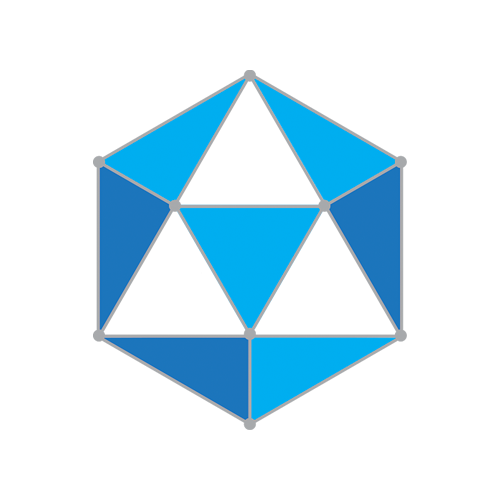
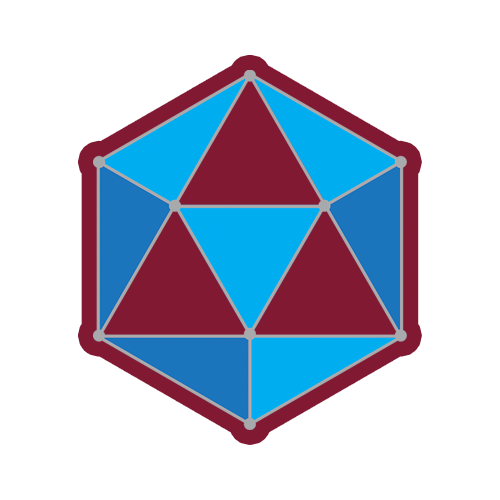
Add files via upload

Changed region(s): [[0.15, 0.09, 0.84, 0.9]]

diff --git a/settings/styling.css b/settings/styling.css
@@ -11,7 +11,7 @@ body {
 }
 /* Main Container */
 .container {
-    max-width: 40%;
+    max-width: 50%;
     min-height: 100%;
     margin: auto;
     background-color: #ba2449;
@@ -26,30 +26,52 @@ body {
     margin-right: auto;
     text-align: center;
 }
-/* Title Name */
-.menu {
-    display: flex;              
-    justify-content: center;    
-    align-items: center;    
-    margin-bottom: 3vh;  
-    margin-top: 3vh; 
-    width: 100%; 
-    background-color: #ffffff;
-}
 /* Navigation Bar */
 .menu {
-    display: flex;              
-    justify-content: center;    
-    align-items: center;    
-    margin-bottom: 2vh;  
-    margin-top: 2vh; 
-    width: 100%; 
+    display: flex;
+    align-items: center; /* Vertically aligns items */
+    justify-content: space-between; /* Separates logo and menu items completely */
+    flex-wrap: nowrap; /* Prevents wrapping of content */
+    width: 100%; /* Ensures the menu fits within the parent container */
+    max-width: 100%; /* Limits the width */
     background-color: #b61644;
+    padding: 0.5em 1em; /* Adds padding for better spacing */
+    box-sizing: border-box; /* Includes padding in the element's total width */
 }
+
+.menu img {
+    max-height: 3.2em; /* Scales the logo to fit with text size */
+    flex-shrink: 0; /* Prevents logo from shrinking */
+}
+
+.menu .menu-items {
+    display: flex; /* Aligns text buttons inline */
+    gap: 1em; /* Adds consistent space between the menu items */
+    margin-left: auto; /* Forces the menu items to align to the right */
+}
+
 .menu h2 {
-    margin-left: 2vw;
-    margin-right: 2vw;
+    margin: 0; /* Removes any default margin */
+    font-size: 1em; /* Adjusts font size if necessary */
+    white-space: nowrap; /* Keeps text on a single line */
 }
+
+.menu a {
+    text-decoration: none; /* Removes underline from links */
+    color: #ffe0bc; /* Text color */
+    display: inline-block; /* Ensures text buttons align properly */
+}
+/* Line Break Styling */
+.menu-line {
+    height: 1px; /* Thickness of the line */
+    background-color: #ffe0bc; /* Gold color */
+    width: 100%; /* Spans the full width of the menu container */
+    margin: auto; /* Adds spacing around the line */
+    display: block; /* Ensures the line is visible as a block element */
+}
+
+
+
 /* Header 1 */
 h1 {
     font-size: 2em;
@@ -85,7 +107,6 @@ ul {
 }
 li {
     text-align: left;
-    font-size: 0.85em;
     color: #ffe0bc;
 }
 /* Links */
@@ -107,12 +128,12 @@ a:visited {
 /* Link Hovering */
 a:hover {
     text-decoration: none;
-    color: #e91c56;
+    color: #821933;
 }
 /* Link Active */
 a:active {
     text-decoration: none;
-    color: #b61644;
+    color: #821933;
 }
 /* Page Specific */
 /* index.html */
@@ -130,10 +151,11 @@ a:active {
 #intro img {
     text-align: left;
     display: block;
-    width: 20vw;
+    width: 33vw;
     margin-left: auto;
     margin-right: auto;
     margin-top: 3vh;
+    margin-bottom: 10vh;
 }
 /* Work Experience */
 #workexp {
@@ -152,4 +174,19 @@ a:active {
     margin-left: auto;
     margin-right: auto;
     text-align: center;
+}
+/* Portfolio Menu */
+#portfolio-menu-selection {
+    display: block;
+    text-align: center;
+    background-color:#b61644;
+}
+
+/* Portfolio Banners */
+#portfolio-menu-selection img {
+    padding-top: 4vh;
+    padding-bottom: 4vh;
+    display: block;
+    width: 100%;
+
 }

diff --git a/portfolio.html b/portfolio.html
@@ -1,0 +1,44 @@
+<!DOCTYPE html>
+<!-- English -->
+<html lang="en">
+<head>
+  <!-- Settings -->
+  <meta charset="UTF-8">
+  <meta name="viewport" content="width=device-width, initial-scale=1.0">
+  <link rel="stylesheet" href="settings/styling.css">
+  <title>Conor Davis - Web Work & Design</title>
+</head>
+<body>
+  <!-- Main Section -->
+  <div class="container">
+    <!-- Website Wide -->
+    <!-- Logo -->
+    <div class="logo"><img src="files/logo.png" alt="image"></div>
+    <!-- Menu -->
+    <div class="menu-line"></div> <!-- Add this for the line -->
+    <div class="menu">
+      <br>
+      <img src="files/name.png" alt="image">
+      <!-- index.html -->
+      <h2><a href="index.html">HOME</a></h2>
+      <!-- portfolio.html -->
+      <h2><a href="portfolio.html">PORTFOLIO</a></h2>
+      <!-- contact.html-->
+      <h2><a href="contact.html">CONTACT</a></h2>
+      <br>
+    </div>
+    <div class="menu-line"></div> <!-- Add this for the line -->
+    <!-- Page Specific-->
+    <!-- Menu -->
+    <div id="portfolio-menu-selection">
+      <a href="portfolio-webdev.html"><img src="files/menu-one.png" alt="image"></a>
+      <a href="portfolio-logodesign.html"><img src="files/menu-two.png" alt="image"></a>
+      <a href="portfolio-businesscards.html"><img src="files/menu-three.png" alt="image"></a>
+      <a href="portfolio-socialmedia.html"><img src="files/menu-four.png" alt="image"></a>
+      <a href="portfolio-photoediting.html"><img src="files/menu-five.png" alt="image"></a>
+      <a href="portfolio-programming.html"><img src="files/menu-six.png" alt="image"></a>
+    </div>
+  </div>
+  <!-- Section Ended -->
+</body>
+</html>

diff --git a/index.html b/index.html
@@ -14,17 +14,20 @@
     <!-- Website Wide -->
     <!-- Logo -->
     <div class="logo"><img src="files/logo.png" alt="image"></div>
-    <!-- Upper Menu -->
-    <div class="menu-name"><h1>Conor Davis</h1></div>
     <!-- Menu -->
+    <div class="menu-line"></div> <!-- Add this for the line -->
     <div class="menu">
+      <br>
+      <img src="files/name.png" alt="image">
       <!-- index.html -->
       <h2><a href="index.html">HOME</a></h2>
       <!-- portfolio.html -->
       <h2><a href="portfolio.html">PORTFOLIO</a></h2>
       <!-- contact.html-->
       <h2><a href="contact.html">CONTACT</a></h2>
+      <br>
     </div>
+    <div class="menu-line"></div> <!-- Add this for the line -->
     <!-- Page Specific-->
     <!-- Personal Image & Blurb -->
     <div id="intro">
